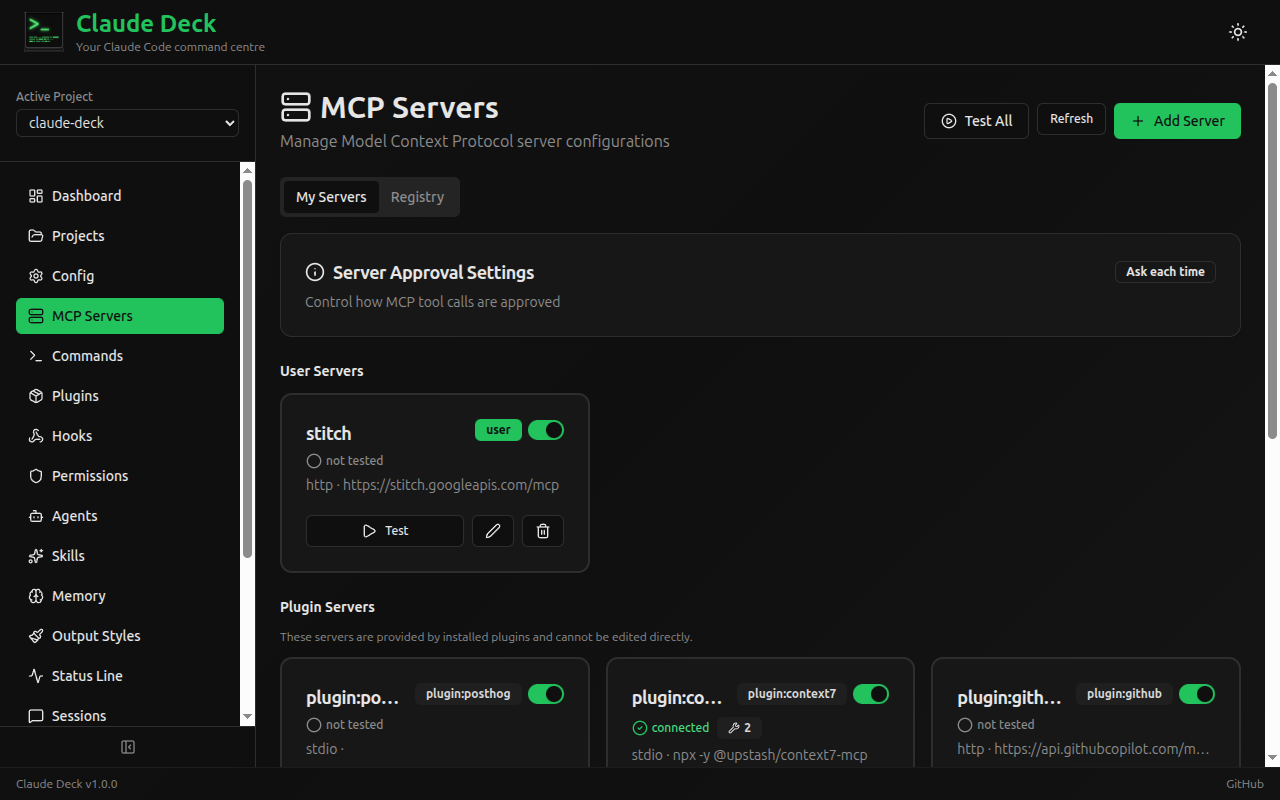
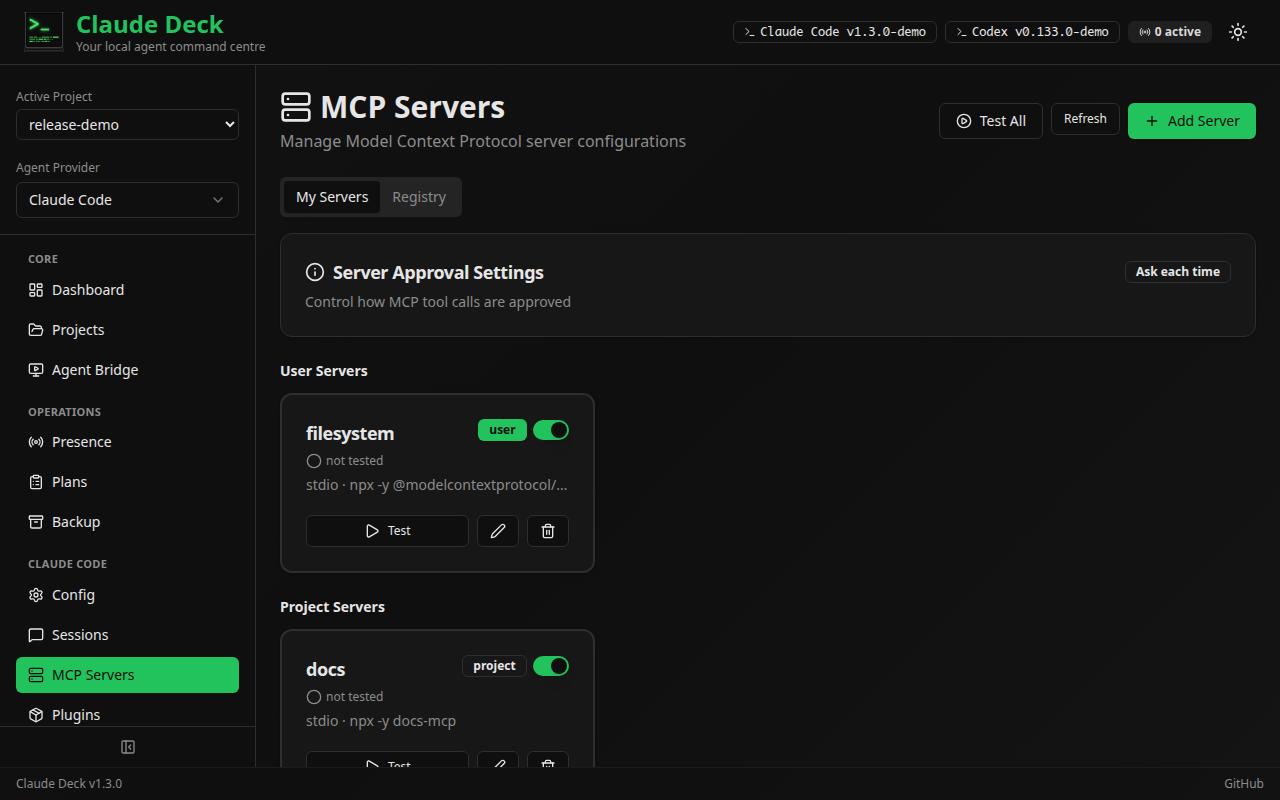
docs: refresh screenshots

diff --git a/README.md b/README.md
@@ -63,20 +63,25 @@ Codex support is explicit about provider boundaries: usage/context parity and se
 
 ## Screenshots
 
-| Dashboard | MCP Servers |
-|-----------|-------------|
-| ![Dashboard](screenshots/dashboard.png) | ![MCP Servers](screenshots/mcp-servers.png) |
-| High-level overview of your Claude Code setup | Manage MCP connections, status, and configuration |
+| Agent Bridge | Dashboard |
+|--------------|-----------|
+| ![Agent Bridge](screenshots/cc-bridge.png) | ![Dashboard](screenshots/dashboard.png) |
+| Monitor and interact with Claude Code and Codex tmux sessions | High-level overview of your local agent workspace |
+
+| Config | MCP Servers |
+|--------|-------------|
+| ![Config](screenshots/config.png) | ![MCP Servers](screenshots/mcp-servers.png) |
+| Edit safe Codex TOML settings and inspect provider diagnostics | Manage MCP connections, status, and configuration |
 
 | Usage Tracking | Session Transcripts |
 |----------------|---------------------|
 | ![Usage Tracking](screenshots/usage-tracking.png) | ![Session Transcripts](screenshots/sessions.png) |
 | Cost visibility, charts, and billing blocks | Browse conversation history and tool usage details |
 
-| Agent Bridge | Skills |
-|-----------|--------|
-| ![Agent Bridge](screenshots/cc-bridge.png) | ![Skills](screenshots/skills.png) |
-| Monitor and interact with Claude Code and Codex tmux sessions | Browse installed skills and discover new ones |
+| Skills |
+|--------|
+| ![Skills](screenshots/skills.png) |
+| Browse installed skills and discover new ones |
 
 ## Tech Stack
 
